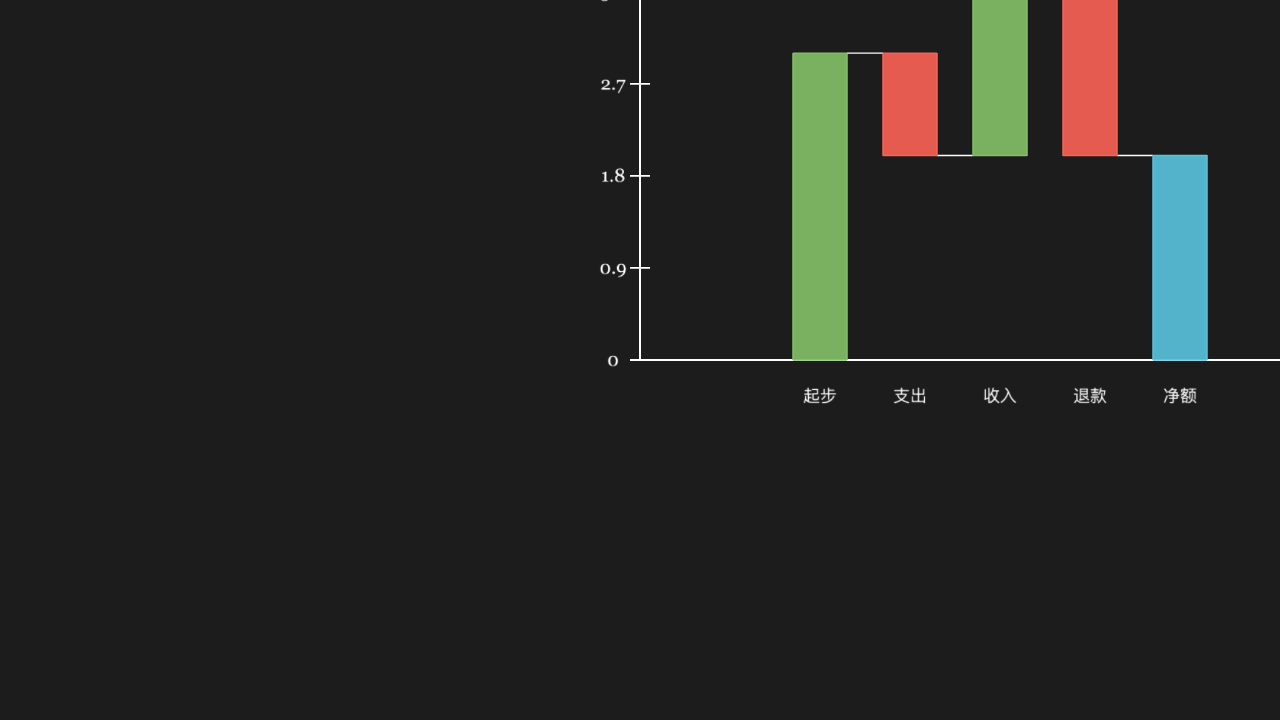
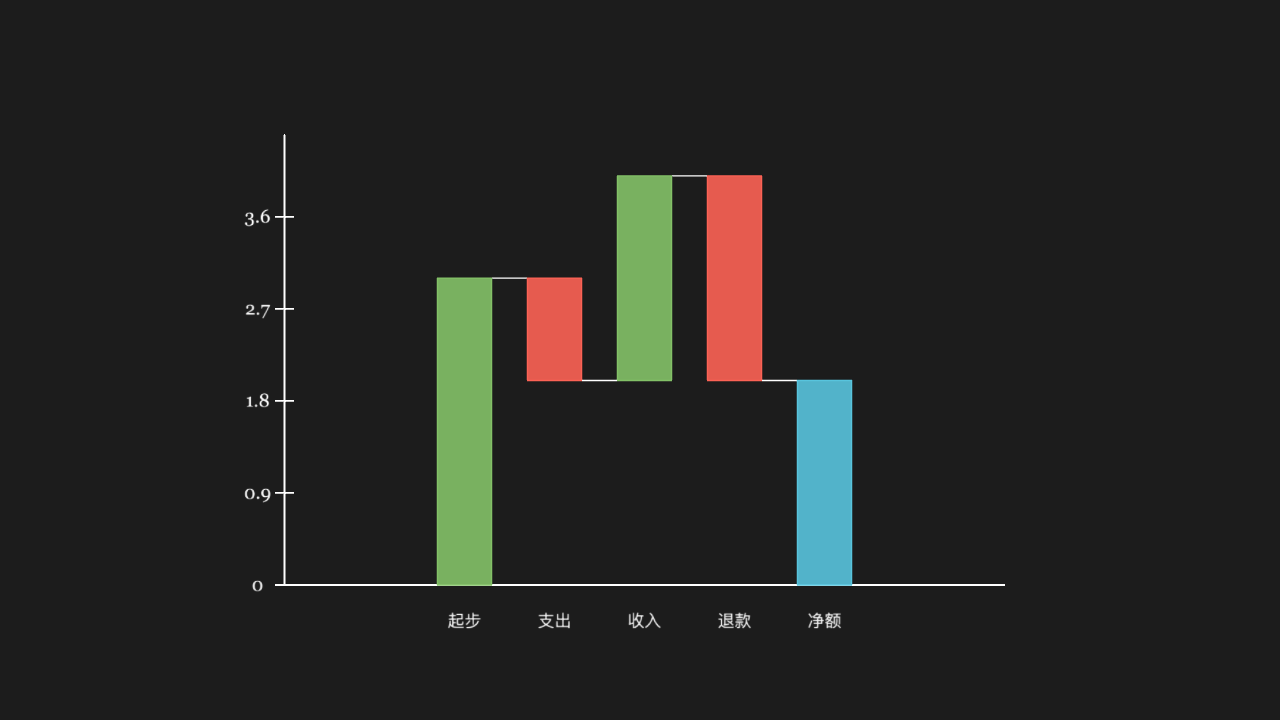
fix(corpus): 瀑布图与神经网络语料补居中
上游这两个类的构图基准都是「贴原点往右上生长」——WaterfallChart 默认 8x5、左下角贴 ORIGIN；
NeuralNetwork 的第一层贴原点往右排。所以瀑布图不只是偏，是顶到画框被裁了一角，神经网络整块
偏在右半屏。同级语料（05-stacked-bar / 08-calendar-heatmap / 12-gantt-chart）早就写了
move_to(ORIGIN) 并留了注释，这两条漏了。

- 16-waterfall.py：构造后 chart.move_to(ORIGIN)
- 21-neural-network.py：scale(0.8) 之后 net.move_to(ORIGIN)

量墨迹包围盒中心（画幅中心为原点）：瀑布图 (300, -158) → (-16, +22)，包围盒完整落框；
神经网络 (225, 0) → (0, 0)。同级其余 32 张本来就在 ±70 内。摆位留在语料里、用户看得见，
没改上游、也没在车道里偷偷自动居中。

diff --git a/corpus/examples/extras/21-neural-network.py b/corpus/examples/extras/21-neural-network.py
@@ -19,5 +19,6 @@ class NeuralNetworkScene(Scene):
             layer_spacing=2.0,
         )
         net.scale(0.8)
+        net.move_to(ORIGIN)  # 上游把层从 x=0 往右排（第一层贴原点），不居中会整块偏到右半屏
         self.play(Create(net))
         self.wait(0.3)

diff --git a/corpus/examples/extras/16-waterfall.py b/corpus/examples/extras/16-waterfall.py
@@ -16,5 +16,6 @@ class WaterfallScene(Scene):
             show_total=True,
             total_label='净额',
         )
+        chart.move_to(ORIGIN)  # 上游图表类默认从原点往右上构图，不居中会偏出画面
         self.play(Create(chart))
         self.wait(0.3)
